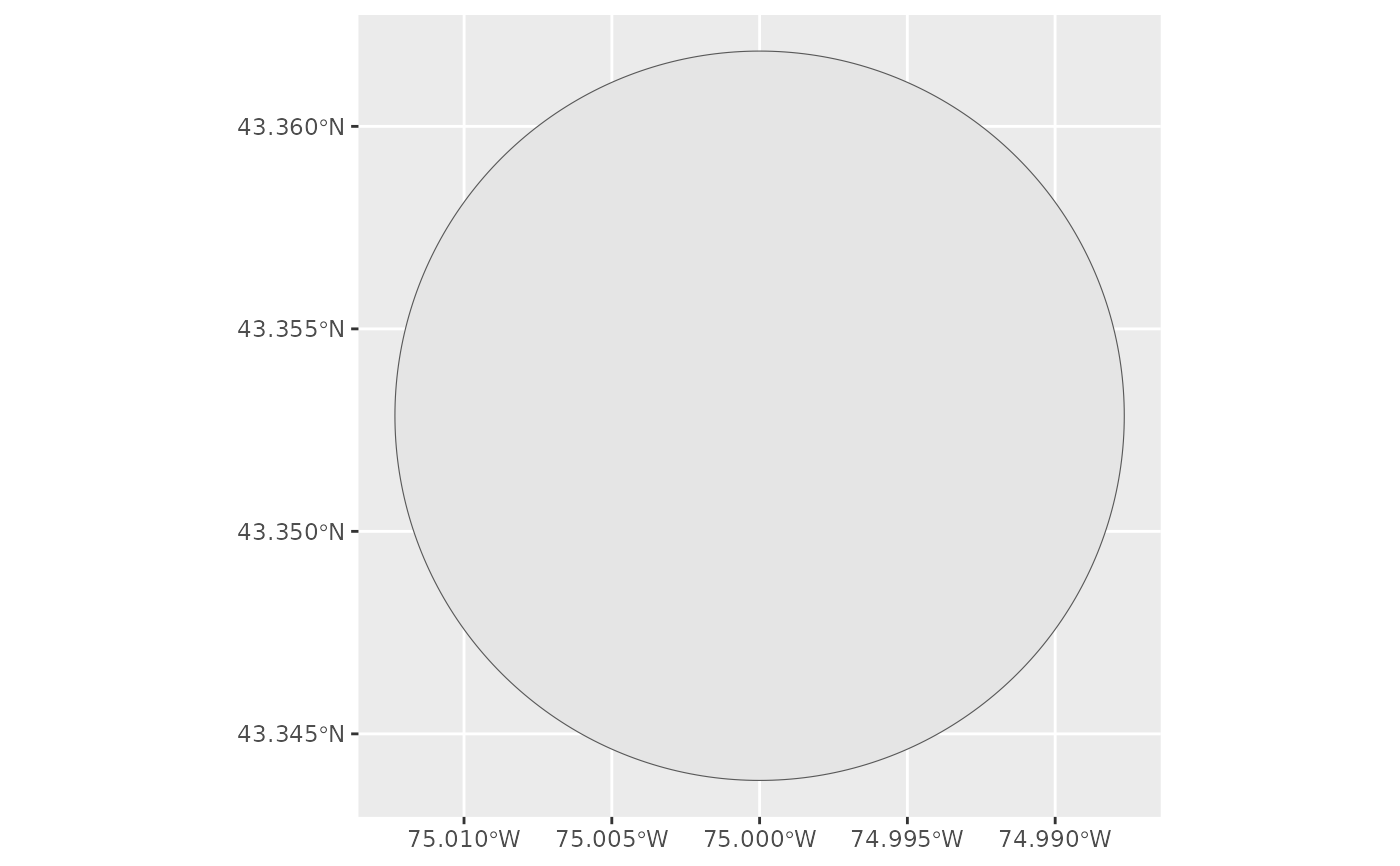
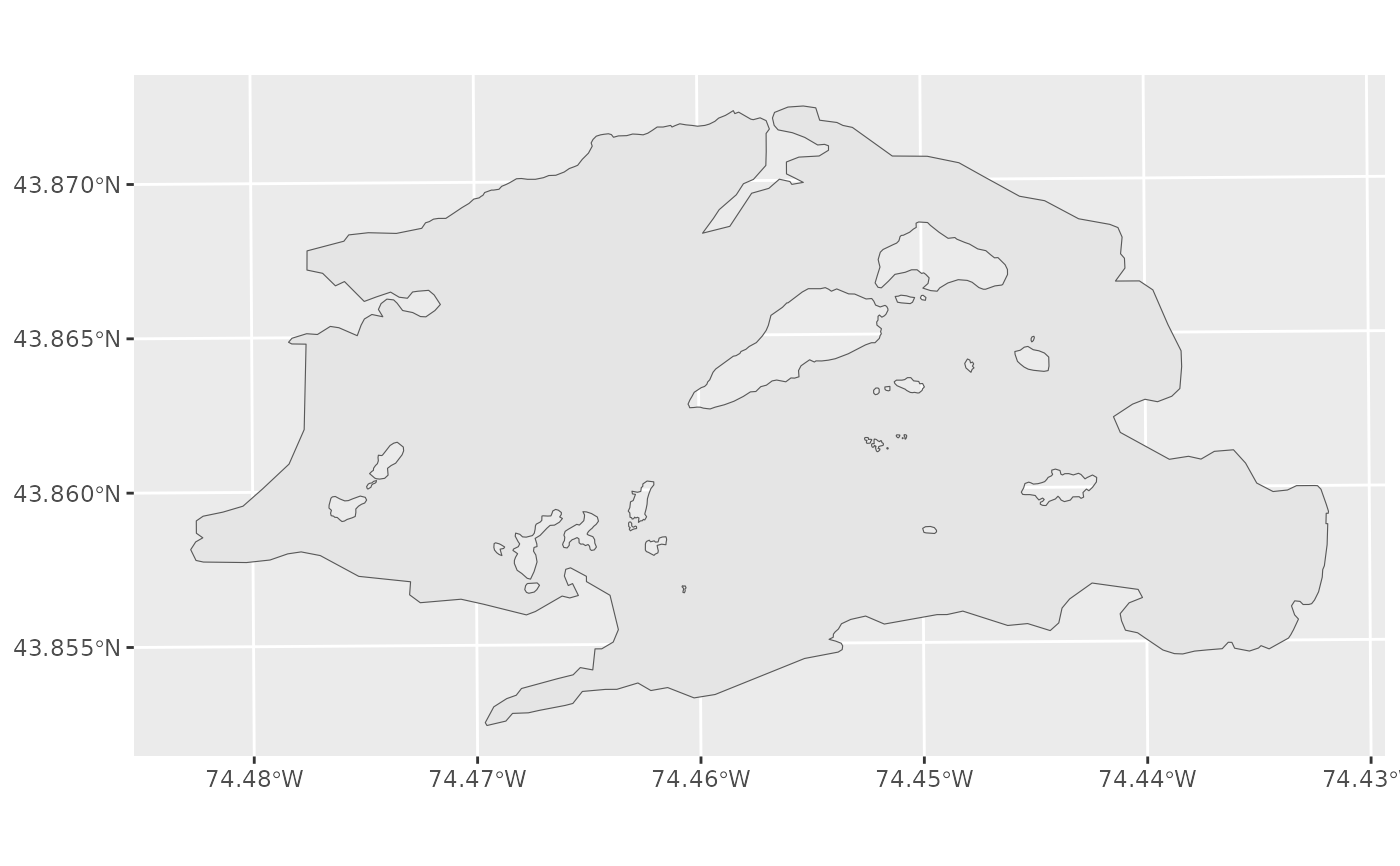
Deploying to gh-pages from @ jeremylfarrell/lakefetch@2493a69d3fe1ed6a2eea5a3f7d6e1d75bf8842f0 🚀

diff --git a/reference/example_lake.html b/reference/example_lake.html
@@ -1,9 +1,15 @@
 <!DOCTYPE html>
-<!-- Generated by pkgdown: do not edit by hand --><html lang="en-US"><head><meta http-equiv="Content-Type" content="text/html; charset=UTF-8"><meta charset="utf-8"><meta http-equiv="X-UA-Compatible" content="IE=edge"><meta name="viewport" content="width=device-width, initial-scale=1, shrink-to-fit=no"><title>Example Circular Lake Polygon — example_lake • lakefetch</title><script src="../deps/jquery-3.6.0/jquery-3.6.0.min.js"></script><meta name="viewport" content="width=device-width, initial-scale=1, shrink-to-fit=no"><link href="../deps/bootstrap-5.3.8/bootstrap.min.css" rel="stylesheet"><script src="../deps/bootstrap-5.3.8/bootstrap.bundle.min.js"></script><link href="../deps/font-awesome-6.5.2/css/all.min.css" rel="stylesheet"><link href="../deps/font-awesome-6.5.2/css/v4-shims.min.css" rel="stylesheet"><script src="../deps/headroom-0.11.0/headroom.min.js"></script><script src="../deps/headroom-0.11.0/jQuery.headroom.min.js"></script><script src="../deps/bootstrap-toc-1.0.1/bootstrap-toc.min.js"></script><script src="../deps/clipboard.js-2.0.11/clipboard.min.js"></script><script src="../deps/search-1.0.0/autocomplete.jquery.min.js"></script><script src="../deps/search-1.0.0/fuse.min.js"></script><script src="../deps/search-1.0.0/mark.min.js"></script><!-- pkgdown --><script src="../pkgdown.js"></script><meta property="og:title" content="Example Circular Lake Polygon — example_lake"><meta name="description" content="A simple circular lake polygon for demonstration and testing purposes.
-This synthetic lake has known geometry (1 km radius) which makes it
-useful for validating fetch calculations."><meta property="og:description" content="A simple circular lake polygon for demonstration and testing purposes.
-This synthetic lake has known geometry (1 km radius) which makes it
-useful for validating fetch calculations."></head><body>
+<!-- Generated by pkgdown: do not edit by hand --><html lang="en-US"><head><meta http-equiv="Content-Type" content="text/html; charset=UTF-8"><meta charset="utf-8"><meta http-equiv="X-UA-Compatible" content="IE=edge"><meta name="viewport" content="width=device-width, initial-scale=1, shrink-to-fit=no"><title>Blue Mountain Lake Polygon (Example Lake) — example_lake • lakefetch</title><script src="../deps/jquery-3.6.0/jquery-3.6.0.min.js"></script><meta name="viewport" content="width=device-width, initial-scale=1, shrink-to-fit=no"><link href="../deps/bootstrap-5.3.8/bootstrap.min.css" rel="stylesheet"><script src="../deps/bootstrap-5.3.8/bootstrap.bundle.min.js"></script><link href="../deps/font-awesome-6.5.2/css/all.min.css" rel="stylesheet"><link href="../deps/font-awesome-6.5.2/css/v4-shims.min.css" rel="stylesheet"><script src="../deps/headroom-0.11.0/headroom.min.js"></script><script src="../deps/headroom-0.11.0/jQuery.headroom.min.js"></script><script src="../deps/bootstrap-toc-1.0.1/bootstrap-toc.min.js"></script><script src="../deps/clipboard.js-2.0.11/clipboard.min.js"></script><script src="../deps/search-1.0.0/autocomplete.jquery.min.js"></script><script src="../deps/search-1.0.0/fuse.min.js"></script><script src="../deps/search-1.0.0/mark.min.js"></script><!-- pkgdown --><script src="../pkgdown.js"></script><meta property="og:title" content="Blue Mountain Lake Polygon (Example Lake) — example_lake"><meta name="description" content='The OpenStreetMap boundary polygon for Blue Mountain Lake in Hamilton
+County, New York. Bundled with the package so that fetch examples can
+run offline (no internet or Overpass API call required) and pkgdown
+pages can render plot output. The coordinates match the sites in
+system.file("extdata", "sample_sites.csv", package = "lakefetch"),
+so the two datasets can be used together end-to-end.'><meta property="og:description" content='The OpenStreetMap boundary polygon for Blue Mountain Lake in Hamilton
+County, New York. Bundled with the package so that fetch examples can
+run offline (no internet or Overpass API call required) and pkgdown
+pages can render plot output. The coordinates match the sites in
+system.file("extdata", "sample_sites.csv", package = "lakefetch"),
+so the two datasets can be used together end-to-end.'></head><body>
     <a href="#main" class="visually-hidden-focusable">Skip to contents</a>
 
 
@@ -11,7 +17,7 @@ useful for validating fetch calculations."></head><body>
 
     <a class="navbar-brand me-2" href="../index.html">lakefetch</a>
 
-    <small class="nav-text text-muted me-auto" data-bs-toggle="tooltip" data-bs-placement="bottom" title="">0.1.9</small>
+    <small class="nav-text text-muted me-auto" data-bs-toggle="tooltip" data-bs-placement="bottom" title="">0.1.10</small>
 
 
     <button class="navbar-toggler" type="button" data-bs-toggle="collapse" data-bs-target="#navbar" aria-controls="navbar" aria-expanded="false" aria-label="Toggle navigation">
@@ -37,15 +43,18 @@ useful for validating fetch calculations."></head><body>
 <div class="row">
   <main id="main" class="col-md-9"><div class="page-header">
 
-      <h1>Example Circular Lake Polygon</h1>
+      <h1>Blue Mountain Lake Polygon (Example Lake)</h1>
       <small class="dont-index">Source: <a href="https://github.com/jeremylfarrell/lakefetch/blob/ropensci-software-review/R/data.R" class="external-link"><code>R/data.R</code></a></small>
       <div class="d-none name"><code>example_lake.Rd</code></div>
     </div>
 
     <div class="ref-description section level2">
-    <p>A simple circular lake polygon for demonstration and testing purposes.
-This synthetic lake has known geometry (1 km radius) which makes it
-useful for validating fetch calculations.</p>
+    <p>The OpenStreetMap boundary polygon for Blue Mountain Lake in Hamilton
+County, New York. Bundled with the package so that fetch examples can
+run offline (no internet or Overpass API call required) and pkgdown
+pages can render plot output. The coordinates match the sites in
+<code>system.file("extdata", "sample_sites.csv", package = "lakefetch")</code>,
+so the two datasets can be used together end-to-end.</p>
     </div>
 
     <div class="section level2">
@@ -55,50 +64,56 @@ useful for validating fetch calculations.</p>
 
     <div class="section level2">
     <h2 id="format">Format<a class="anchor" aria-label="anchor" href="#format"></a></h2>
-    <p>An sf object with 1 row and 3 variables:</p><dl><dt>osm_id</dt>
-<dd><p>Identifier (synthetic)</p></dd>
+    <p>An sf object with 1 row and 3 fields plus geometry:</p><dl><dt>osm_id</dt>
+<dd><p>OSM relation identifier</p></dd>
 
 <dt>name</dt>
-<dd><p>Lake name</p></dd>
+<dd><p>Lake name ("Blue Mountain Lake")</p></dd>
 
 <dt>area_km2</dt>
-<dd><p>Surface area in square kilometers (~3.14 km²)</p></dd>
+<dd><p>Surface area in square kilometers</p></dd>
 
 <dt>geometry</dt>
-<dd><p>POLYGON geometry in UTM Zone 18N (EPSG:32618)</p></dd>
+<dd><p>MULTIPOLYGON geometry in UTM Zone 18N (EPSG:32618)</p></dd>
 
 
 </dl></div>
     <div class="section level2">
     <h2 id="source">Source<a class="anchor" aria-label="anchor" href="#source"></a></h2>
-    <p>Synthetic data for demonstration and validation</p>
-    </div>
-    <div class="section level2">
-    <h2 id="details">Details<a class="anchor" aria-label="anchor" href="#details"></a></h2>
-    <p>The lake is centered at UTM coordinates (500000, 4800000) with a radius
-of 1000 meters. For a site at the center, fetch should equal 1000 m in
-all directions.</p>
+    <p>Downloaded from OpenStreetMap
+<a href="https://www.openstreetmap.org/" class="external-link">https://www.openstreetmap.org/</a>. See
+<code>data-raw/create_example_data.R</code> for the exact query.</p>
     </div>
 
     <div class="section level2">
     <h2 id="ref-examples">Examples<a class="anchor" aria-label="anchor" href="#ref-examples"></a></h2>
-    <div class="sourceCode"><pre class="sourceCode r"><code><span class="r-in"><span><span class="co"># Load the dataset</span></span></span>
-<span class="r-in"><span><span class="fu"><a href="https://rdrr.io/r/utils/data.html" class="external-link">data</a></span><span class="op">(</span><span class="va">example_lake</span><span class="op">)</span></span></span>
-<span class="r-in"><span></span></span>
-<span class="r-in"><span><span class="co"># View structure</span></span></span>
+    <div class="sourceCode"><pre class="sourceCode r"><code><span class="r-in"><span><span class="fu"><a href="https://rdrr.io/r/utils/data.html" class="external-link">data</a></span><span class="op">(</span><span class="va">example_lake</span><span class="op">)</span></span></span>
 <span class="r-in"><span><span class="fu"><a href="https://rdrr.io/r/base/print.html" class="external-link">print</a></span><span class="op">(</span><span class="va">example_lake</span><span class="op">)</span></span></span>
 <span class="r-out co"><span class="r-pr">#&gt;</span> Simple feature collection with 1 feature and 3 fields</span>
 <span class="r-out co"><span class="r-pr">#&gt;</span> Geometry type: POLYGON</span>
 <span class="r-out co"><span class="r-pr">#&gt;</span> Dimension:     XY</span>
-<span class="r-out co"><span class="r-pr">#&gt;</span> Bounding box:  xmin: 499000 ymin: 4799000 xmax: 501000 ymax: 4801000</span>
+<span class="r-out co"><span class="r-pr">#&gt;</span> Bounding box:  xmin: 541565.8 ymin: 4855616 xmax: 545660 ymax: 4857845</span>
 <span class="r-out co"><span class="r-pr">#&gt;</span> Projected CRS: WGS 84 / UTM zone 18N</span>
-<span class="r-out co"><span class="r-pr">#&gt;</span>        osm_id                  name area_km2                       geometry</span>
-<span class="r-out co"><span class="r-pr">#&gt;</span> 1 example_001 Example Circular Lake 3.141593 POLYGON ((501000 4800000, 5...</span>
+<span class="r-out co"><span class="r-pr">#&gt;</span>    osm_id               name area_km2                       geometry</span>
+<span class="r-out co"><span class="r-pr">#&gt;</span> 1 2202972 Blue Mountain Lake 5.055174 POLYGON ((543523.8 4857818,...</span>
 <span class="r-in"><span></span></span>
 <span class="r-in"><span><span class="co"># Plot the lake</span></span></span>
 <span class="r-in"><span><span class="kw"><a href="https://rdrr.io/r/base/library.html" class="external-link">library</a></span><span class="op">(</span><span class="va"><a href="https://ggplot2.tidyverse.org" class="external-link">ggplot2</a></span><span class="op">)</span></span></span>
 <span class="r-in"><span><span class="fu"><a href="https://ggplot2.tidyverse.org/reference/ggplot.html" class="external-link">ggplot</a></span><span class="op">(</span><span class="va">example_lake</span><span class="op">)</span> <span class="op">+</span> <span class="fu"><a href="https://ggplot2.tidyverse.org/reference/ggsf.html" class="external-link">geom_sf</a></span><span class="op">(</span><span class="op">)</span></span></span>
 <span class="r-plt img"><img src="example_lake-1.png" alt="" width="700" height="433"></span>
+<span class="r-in"><span></span></span>
+<span class="r-in"><span><span class="co"># Load matching sample sites (they lie inside this polygon) and</span></span></span>
+<span class="r-in"><span><span class="co"># compute fetch end-to-end without touching OSM. First convert</span></span></span>
+<span class="r-in"><span><span class="co"># example_lake into the multi-lake list format that fetch_calculate()</span></span></span>
+<span class="r-in"><span><span class="co"># expects:</span></span></span>
+<span class="r-in"><span><span class="va">sites</span> <span class="op">&lt;-</span> <span class="fu"><a href="load_sites.html">load_sites</a></span><span class="op">(</span><span class="fu"><a href="https://rdrr.io/r/base/system.file.html" class="external-link">system.file</a></span><span class="op">(</span><span class="st">"extdata"</span>, <span class="st">"sample_sites.csv"</span>,</span></span>
+<span class="r-in"><span>                                 package <span class="op">=</span> <span class="st">"lakefetch"</span><span class="op">)</span><span class="op">)</span></span></span>
+<span class="r-msg co"><span class="r-pr">#&gt;</span> Loading data from: /home/runner/work/_temp/Library/lakefetch/extdata/sample_sites.csv</span>
+<span class="r-msg co"><span class="r-pr">#&gt;</span>   Loaded 2 rows with columns: Site, latitude, longitude, lake.name</span>
+<span class="r-msg co"><span class="r-pr">#&gt;</span>   Using columns: Latitude = latitude, Longitude = longitude</span>
+<span class="r-msg co"><span class="r-pr">#&gt;</span>   Preserved lake name column: lake.name</span>
+<span class="r-msg co"><span class="r-pr">#&gt;</span>   Final valid samples: 2</span>
+<span class="r-msg co"><span class="r-pr">#&gt;</span>   Detected location from column 'lake.name': Blue Mountain Lake</span>
 <span class="r-in"><span></span></span>
 </code></pre></div>
     </div>

diff --git a/news/index.html b/news/index.html
@@ -7,7 +7,7 @@
 
     <a class="navbar-brand me-2" href="../index.html">lakefetch</a>
 
-    <small class="nav-text text-muted me-auto" data-bs-toggle="tooltip" data-bs-placement="bottom" title="">0.1.9</small>
+    <small class="nav-text text-muted me-auto" data-bs-toggle="tooltip" data-bs-placement="bottom" title="">0.1.10</small>
 
 
     <button class="navbar-toggler" type="button" data-bs-toggle="collapse" data-bs-target="#navbar" aria-controls="navbar" aria-expanded="false" aria-label="Toggle navigation">
@@ -37,6 +37,24 @@
       <small>Source: <a href="https://github.com/jeremylfarrell/lakefetch/blob/ropensci-software-review/NEWS.md" class="external-link"><code>NEWS.md</code></a></small>
     </div>
 
+    <div class="section level2">
+<h2 class="pkg-version" data-toc-text="0.1.10" id="lakefetch-0110">lakefetch 0.1.10<a class="anchor" aria-label="anchor" href="#lakefetch-0110"></a></h2>
+<p>Response to Pakillo’s final review comments on ropensci/software-review#762.</p>
+<div class="section level3">
+<h3 id="new-features-0-1-10">New features<a class="anchor" aria-label="anchor" href="#new-features-0-1-10"></a></h3>
+<ul><li>
+<strong><code><a href="../reference/get_lake_boundary.html">get_lake_boundary()</a></code> <code>total_timeout_s</code> argument</strong>: a hard wall-clock cap (default 300 seconds / 5 minutes) on the total time the function will spend downloading from OSM before it aborts and returns whatever it has collected. Complements the existing per-query <code>timeout</code>, which bounds a single Overpass call but not the aggregate over multiple clusters or query types.</li>
+<li>
+<strong>Shiny <code><a href="../reference/fetch_app_upload.html">fetch_app_upload()</a></code> accepts a user-supplied lake boundary</strong>: a new file input in the upload panel lets users upload their own shapefile / GeoPackage / GeoJSON / KML instead of hitting OSM. This makes the app usable end-to-end when Overpass is unavailable or when the target lake is not well-mapped in OSM. Shapefiles can be uploaded as a multi-file selection (<code>.shp</code> + <code>.shx</code> + <code>.dbf</code> + <code>.prj</code>).</li>
+<li>
+<strong>GeoPackage export now includes fetch rays and lake polygons</strong>: the “Download GeoPackage” button in <code><a href="../reference/fetch_app_upload.html">fetch_app_upload()</a></code> writes three layers instead of one - <code>sites</code> (points with fetch attributes), <code>fetch_rays</code> (line geometries for each direction, from <code><a href="../reference/create_ray_geometries.html">create_ray_geometries()</a></code>), and <code>lakes</code> (boundary polygons).</li>
+</ul></div>
+<div class="section level3">
+<h3 id="data-0-1-10">Data<a class="anchor" aria-label="anchor" href="#data-0-1-10"></a></h3>
+<ul><li>
+<strong><code>example_lake</code> is now the real Blue Mountain Lake polygon</strong> (Hamilton County, NY, ~5 km^2), downloaded once from OpenStreetMap and bundled as a <code>.rda</code>. Previously a synthetic 1 km-radius circle. The new polygon matches the location of <code>inst/extdata/sample_sites.csv</code>, so package examples and the pkgdown site can render fetch plots end-to-end without needing a live OSM connection.</li>
+</ul></div>
+</div>
     <div class="section level2">
 <h2 class="pkg-version" data-toc-text="0.1.9" id="lakefetch-019">lakefetch 0.1.9<a class="anchor" aria-label="anchor" href="#lakefetch-019"></a></h2>
 <p>Follow-up after an issue opened by rOpenSci editor Pakillo during final review checks (<a href="https://github.com/jeremylfarrell/lakefetch/issues/2" class="external-link">lakefetch#2</a>).</p>

diff --git a/reference/get_lake_boundary.html b/reference/get_lake_boundary.html
@@ -7,7 +7,7 @@
 
     <a class="navbar-brand me-2" href="../index.html">lakefetch</a>
 
-    <small class="nav-text text-muted me-auto" data-bs-toggle="tooltip" data-bs-placement="bottom" title="">0.1.9</small>
+    <small class="nav-text text-muted me-auto" data-bs-toggle="tooltip" data-bs-placement="bottom" title="">0.1.10</small>
 
 
     <button class="navbar-toggler" type="button" data-bs-toggle="collapse" data-bs-target="#navbar" aria-controls="navbar" aria-expanded="false" aria-label="Toggle navigation">
@@ -44,7 +44,13 @@
 
     <div class="section level2">
     <h2 id="ref-usage">Usage<a class="anchor" aria-label="anchor" href="#ref-usage"></a></h2>
-    <div class="sourceCode"><pre class="sourceCode r"><code><span><span class="fu">get_lake_boundary</span><span class="op">(</span><span class="va">sites</span>, file <span class="op">=</span> <span class="cn">NULL</span>, timeout <span class="op">=</span> <span class="fl">90</span>, simplify_tolerance_m <span class="op">=</span> <span class="fl">0</span><span class="op">)</span></span></code></pre></div>
+    <div class="sourceCode"><pre class="sourceCode r"><code><span><span class="fu">get_lake_boundary</span><span class="op">(</span></span>
+<span>  <span class="va">sites</span>,</span>
+<span>  file <span class="op">=</span> <span class="cn">NULL</span>,</span>
+<span>  timeout <span class="op">=</span> <span class="fl">90</span>,</span>
+<span>  simplify_tolerance_m <span class="op">=</span> <span class="fl">0</span>,</span>
+<span>  total_timeout_s <span class="op">=</span> <span class="fl">300</span></span>
+<span><span class="op">)</span></span></code></pre></div>
     </div>
 
     <div class="section level2">
@@ -72,6 +78,16 @@ polygons with <code>sf::st_simplify(dTolerance = simplify_tolerance_m)</code>
 complex lakes where an exact coastline is not needed and a coarser
 polygon greatly speeds up fetch ray-casting. Typical values: 50-500 m
 for large lakes (e.g., Mälaren, Vättern). Default is 0 (no simplification).</p></dd>
+
+
+<dt id="arg-total-timeout-s">total_timeout_s<a class="anchor" aria-label="anchor" href="#arg-total-timeout-s"></a></dt>
+<dd><p>Numeric; hard cap in seconds on the wall-clock time
+<code>get_lake_boundary()</code> will spend downloading from OSM before it
+aborts and returns whatever partial results it has collected. This is
+independent of the per-query <code>timeout</code>: a slow Overpass server or
+a large multi-cluster query set can still take much longer than
+<code>timeout</code> in aggregate. Default 300 (5 minutes), set to <code>Inf</code>
+to disable.</p></dd>
 
 </dl></div>
     <div class="section level2">

diff --git a/reference/get_lake_depth.html b/reference/get_lake_depth.html
@@ -11,7 +11,7 @@ empirical relationships."></head><body>
 
     <a class="navbar-brand me-2" href="../index.html">lakefetch</a>
 
-    <small class="nav-text text-muted me-auto" data-bs-toggle="tooltip" data-bs-placement="bottom" title="">0.1.9</small>
+    <small class="nav-text text-muted me-auto" data-bs-toggle="tooltip" data-bs-placement="bottom" title="">0.1.10</small>
 
 
     <button class="navbar-toggler" type="button" data-bs-toggle="collapse" data-bs-target="#navbar" aria-controls="navbar" aria-expanded="false" aria-label="Toggle navigation">
@@ -120,7 +120,7 @@ depth of Earth's lakes. Geophysical Research Letters, 44: 209-218.</p>
 <span class="r-in"><span></span></span>
 <span class="r-in"><span><span class="co"># Estimate from lake area</span></span></span>
 <span class="r-in"><span><span class="va">depth</span> <span class="op">&lt;-</span> <span class="fu">get_lake_depth</span><span class="op">(</span><span class="va">example_lake</span><span class="op">)</span></span></span>
-<span class="r-msg co"><span class="r-pr">#&gt;</span>   Lake depth estimated from area (3.14 km2): mean ~ 13.7m, max ~ 34.3m</span>
+<span class="r-msg co"><span class="r-pr">#&gt;</span>   Lake depth estimated from area (5.06 km2): mean ~ 15.4m, max ~ 38.6m</span>
 <span class="r-in"><span></span></span>
 </code></pre></div>
     </div>

diff --git a/reference/index.html b/reference/index.html
@@ -7,7 +7,7 @@
 
     <a class="navbar-brand me-2" href="../index.html">lakefetch</a>
 
-    <small class="nav-text text-muted me-auto" data-bs-toggle="tooltip" data-bs-placement="bottom" title="">0.1.9</small>
+    <small class="nav-text text-muted me-auto" data-bs-toggle="tooltip" data-bs-placement="bottom" title="">0.1.10</small>
 
 
     <button class="navbar-toggler" type="button" data-bs-toggle="collapse" data-bs-target="#navbar" aria-controls="navbar" aria-expanded="false" aria-label="Toggle navigation">
@@ -247,7 +247,7 @@
           <code><a href="example_lake.html">example_lake</a></code>
 
         </dt>
-        <dd>Example Circular Lake Polygon</dd>
+        <dd>Blue Mountain Lake Polygon (Example Lake)</dd>
 
         <dt>
 

diff --git a/404.html b/404.html
@@ -20,7 +20,7 @@
 
     <a class="navbar-brand me-2" href="https://jeremylfarrell.github.io/lakefetch/index.html">lakefetch</a>
 
-    <small class="nav-text text-muted me-auto" data-bs-toggle="tooltip" data-bs-placement="bottom" title="">0.1.9</small>
+    <small class="nav-text text-muted me-auto" data-bs-toggle="tooltip" data-bs-placement="bottom" title="">0.1.10</small>
 
 
     <button class="navbar-toggler" type="button" data-bs-toggle="collapse" data-bs-target="#navbar" aria-controls="navbar" aria-expanded="false" aria-label="Toggle navigation">

diff --git a/CLAUDE.html b/CLAUDE.html
@@ -7,7 +7,7 @@
 
     <a class="navbar-brand me-2" href="index.html">lakefetch</a>
 
-    <small class="nav-text text-muted me-auto" data-bs-toggle="tooltip" data-bs-placement="bottom" title="">0.1.9</small>
+    <small class="nav-text text-muted me-auto" data-bs-toggle="tooltip" data-bs-placement="bottom" title="">0.1.10</small>
 
 
     <button class="navbar-toggler" type="button" data-bs-toggle="collapse" data-bs-target="#navbar" aria-controls="navbar" aria-expanded="false" aria-label="Toggle navigation">

diff --git a/CODE_OF_CONDUCT.html b/CODE_OF_CONDUCT.html
@@ -7,7 +7,7 @@
 
     <a class="navbar-brand me-2" href="index.html">lakefetch</a>
 
-    <small class="nav-text text-muted me-auto" data-bs-toggle="tooltip" data-bs-placement="bottom" title="">0.1.9</small>
+    <small class="nav-text text-muted me-auto" data-bs-toggle="tooltip" data-bs-placement="bottom" title="">0.1.10</small>
 
 
     <button class="navbar-toggler" type="button" data-bs-toggle="collapse" data-bs-target="#navbar" aria-controls="navbar" aria-expanded="false" aria-label="Toggle navigation">

diff --git a/CONTRIBUTING.html b/CONTRIBUTING.html
@@ -7,7 +7,7 @@
 
     <a class="navbar-brand me-2" href="index.html">lakefetch</a>
 
-    <small class="nav-text text-muted me-auto" data-bs-toggle="tooltip" data-bs-placement="bottom" title="">0.1.9</small>
+    <small class="nav-text text-muted me-auto" data-bs-toggle="tooltip" data-bs-placement="bottom" title="">0.1.10</small>
 
 
     <button class="navbar-toggler" type="button" data-bs-toggle="collapse" data-bs-target="#navbar" aria-controls="navbar" aria-expanded="false" aria-label="Toggle navigation">

diff --git a/LICENSE-text.html b/LICENSE-text.html
@@ -7,7 +7,7 @@
 
     <a class="navbar-brand me-2" href="index.html">lakefetch</a>
 
-    <small class="nav-text text-muted me-auto" data-bs-toggle="tooltip" data-bs-placement="bottom" title="">0.1.9</small>
+    <small class="nav-text text-muted me-auto" data-bs-toggle="tooltip" data-bs-placement="bottom" title="">0.1.10</small>
 
 
     <button class="navbar-toggler" type="button" data-bs-toggle="collapse" data-bs-target="#navbar" aria-controls="navbar" aria-expanded="false" aria-label="Toggle navigation">

diff --git a/articles/getting-started.html b/articles/getting-started.html
@@ -20,7 +20,7 @@
 
     <a class="navbar-brand me-2" href="../index.html">lakefetch</a>
 
-    <small class="nav-text text-muted me-auto" data-bs-toggle="tooltip" data-bs-placement="bottom" title="">0.1.9</small>
+    <small class="nav-text text-muted me-auto" data-bs-toggle="tooltip" data-bs-placement="bottom" title="">0.1.10</small>
 
 
     <button class="navbar-toggler" type="button" data-bs-toggle="collapse" data-bs-target="#navbar" aria-controls="navbar" aria-expanded="false" aria-label="Toggle navigation">

diff --git a/articles/index.html b/articles/index.html
@@ -7,7 +7,7 @@
 
     <a class="navbar-brand me-2" href="../index.html">lakefetch</a>
 
-    <small class="nav-text text-muted me-auto" data-bs-toggle="tooltip" data-bs-placement="bottom" title="">0.1.9</small>
+    <small class="nav-text text-muted me-auto" data-bs-toggle="tooltip" data-bs-placement="bottom" title="">0.1.10</small>
 
 
     <button class="navbar-toggler" type="button" data-bs-toggle="collapse" data-bs-target="#navbar" aria-controls="navbar" aria-expanded="false" aria-label="Toggle navigation">